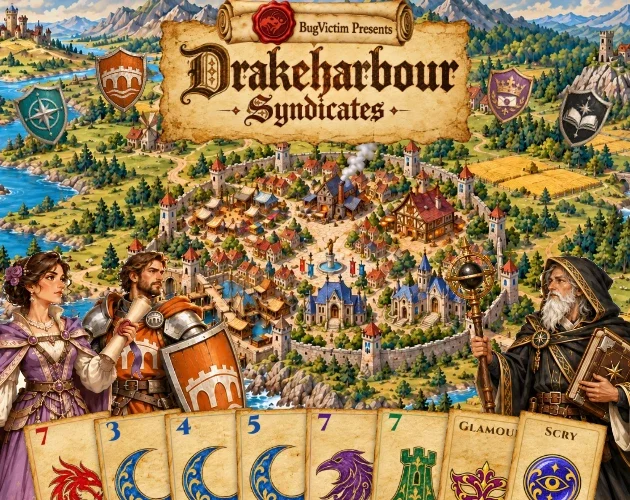
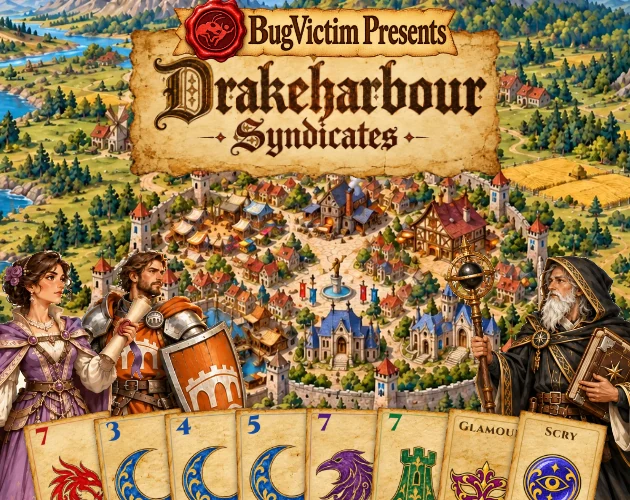
More card games shows the itch.io thumbnails, never cropped

diff --git a/index.html b/index.html
@@ -13,7 +13,7 @@
   <script>
     // Keep up to date without retyping the address: if the published version is newer than this
     // page, fetch the page afresh and reload once. (version.txt is never taken from the cache.)
-    window.GW_VERSION = 13;
+    window.GW_VERSION = 14;
     (function () {
       if (!window.fetch || location.protocol === "file:") return;
       fetch("version.txt", { cache: "no-store" }).then(r => r.ok ? r.text() : "").then(t => {
@@ -24,8 +24,8 @@
       }).catch(() => {});
     })();
   </script>
-  <link rel="stylesheet" href="./gw.css?v=13">
-  <link rel="stylesheet" href="./gw-ui.css?v=13">
+  <link rel="stylesheet" href="./gw.css?v=14">
+  <link rel="stylesheet" href="./gw-ui.css?v=14">
 </head>
 <body>
   <div id="game-area">
@@ -336,14 +336,14 @@
     .sc-orange { color: #f08c00; }
   </style>
 
-  <script src="./AI3.js?v=13"></script>
-  <script src="./gw-expert.js?v=13"></script>
-  <script src="./gw-tutorial.js?v=13"></script>
-  <script src="./gw-core.js?v=13"></script>
+  <script src="./AI3.js?v=14"></script>
+  <script src="./gw-expert.js?v=14"></script>
+  <script src="./gw-tutorial.js?v=14"></script>
+  <script src="./gw-core.js?v=14"></script>
 
   <!-- standalone instructions overlay removed: instructions live inside the start overlay now -->
 
-  <script src="./gw-ui.js?v=13"></script>
-  <script src="./gw-app.js?v=13"></script>
+  <script src="./gw-ui.js?v=14"></script>
+  <script src="./gw-app.js?v=14"></script>
 </body>
 </html>

diff --git a/gw-ui.css b/gw-ui.css
@@ -386,7 +386,7 @@ body.in-menu #btn-settings { display: none; }
   border: 1px solid rgba(var(--accent-rgb), 0.45);
   background: #000;
 }
-.other-game .game-picture img { width: 100%; height: 100%; object-fit: cover; display: block; }
+.other-game .game-picture img { width: 100%; height: 100%; object-fit: contain; display: block; }
 .other-game h3 { margin: 0.6em 0 0.15em; font-size: 1.15em; color: var(--gw-cream); }
 .other-game .game-devices { font-size: 0.82em; color: var(--accent-soft); letter-spacing: 0.04em; }
 .other-game p { margin: 0.4em 0 0.9em; font-size: 0.92em; line-height: 1.4; flex: 1 1 auto; }
@@ -814,8 +814,8 @@ a.game-picture:hover { transform: translateY(-2px); box-shadow: 0 6px 16px rgba(
   .modal-panel.wide h2 { margin-bottom: 0.2em; font-size: 1.3em; }
   .modal-panel.wide .games-intro { margin: 0 0 0.5em; }
   .other-games { gap: 0.9em; }
-  .other-game .game-picture { aspect-ratio: auto; height: 24vh; }
-  .other-game .game-picture img { object-fit: cover; }
+  .other-game .game-picture { height: 22vh; width: auto; align-self: center; }   /* the whole thumbnail, never cropped */
+  .other-game .game-picture img { object-fit: contain; }
   .other-game h3 { margin-top: 0.4em; font-size: 1.05em; }
   .other-game p { font-size: 0.82em; margin: 0.25em 0 0.5em; line-height: 1.3; }
   .play-link { padding: 0.35em 0.6em; }
